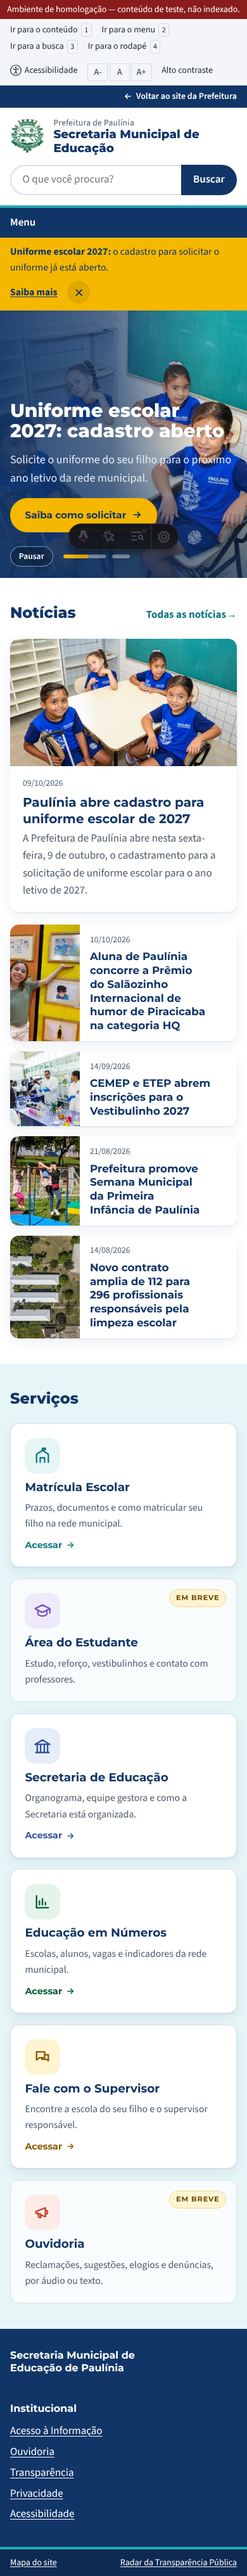
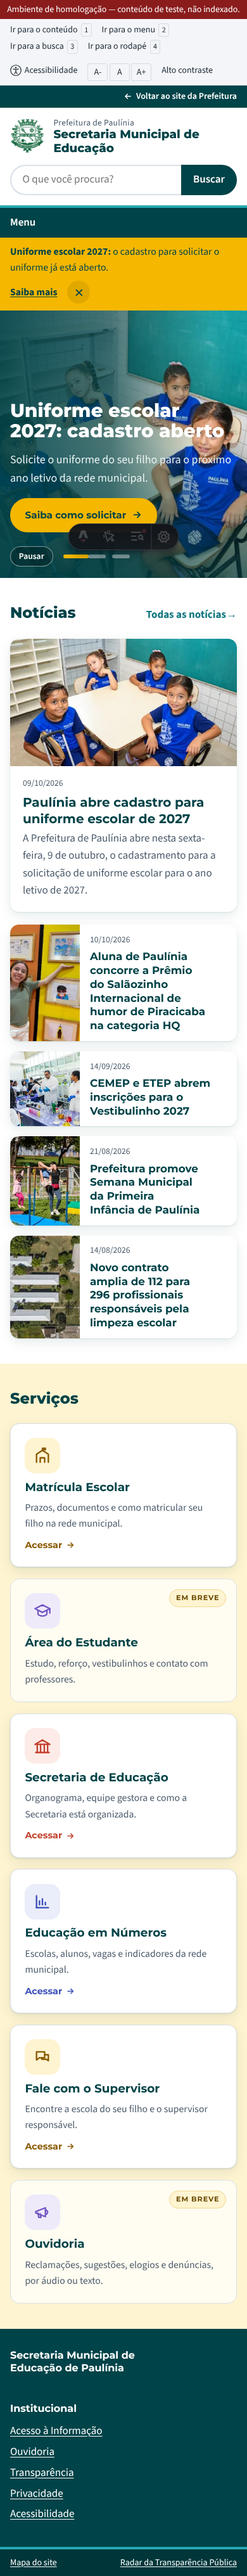
Sistema visual: paleta verde-petróleo da Prefeitura na estrutura e cores vivas próprias no meio; capturas atualizadas
Claude-Session: https://claude.ai/code/session_01HXB4AVSHEMsUa94wDepnf5

Changed region(s): [[0.0, 0.3749, 1.0, 0.9998], [0.0, 0.0312, 1.0, 0.2499]]

diff --git a/docs/design/sistema-visual.html b/docs/design/sistema-visual.html
@@ -7,27 +7,30 @@
    Página de aprovação de um site claro: um só visual, cores explícitas. */
 :root {
   color-scheme: light;
-  /* Estrutura: cores do site da Prefeitura (www.paulinia.sp.gov.br) */
-  --marinho: #113567;
+  /* Estrutura: verdes do site da Prefeitura (medidos na tela de www.paulinia.sp.gov.br) */
+  --marinho: #004348; /* petróleo (nome da variável mantido por compatibilidade) */
   --turquesa: #24a9b3;
   --turquesa-escuro: #127882;
-  --azul: #325497;
-  --ceu: #2996cc;
-  /* Cores vivas da Educação */
+  --verde-pref: #339558; /* verde do logo da Prefeitura */
+  /* Cores vivas da Educação: o portal da Prefeitura não usa nenhuma delas */
   --amarelo: #f5b700;
   --coral: #e8604c;
   --coral-escuro: #c2412d;
-  --verde: #2e9e5b;
-  --verde-escuro: #005c2e; /* o verde do brasão */
+  --anil: #3b4fb8;
+  --azul: #3b4fb8;
+  --ceu: #6f86e0;
+  --verde: #339558;
+  --verde-escuro: #127882;
   --lilas: #7356c4;
   /* Tons de seção (fundos alternados) */
   --tom-turquesa: #e6f6f7;
   --tom-amarelo: #fff4d1;
   --tom-lilas: #efeafa;
   --tom-coral: #fdebe7;
-  --tom-verde: #e5f4ea;
-  --cinza: #f4f6f9;
-  /* Neutros com viés azul */
+  --tom-verde: #e6f6f7;
+  --tom-anil: #eaedfa;
+  --cinza: #f3f7f7;
+  /* Neutros
   --texto: #1c2b3a;
   --texto-suave: #4b5b6b;
   --borda: #d8e0e8;
@@ -217,19 +220,15 @@ a { color: var(--azul); }
   <div class="miolo">
     <span class="rotulo">Marca</span>
     <h2>O brasão em três aplicações</h2>
-    <p class="intro">O arquivo enviado tem uma cor só, então ele pode ser aplicado no verde original, no marinho da Prefeitura ou em branco sobre fundos escuros. No portal, o nome da Secretaria ao lado do brasão é escrito em texto, não em imagem: fica nítido em qualquer tela e é lido por leitores de tela.</p>
+    <p class="intro">O arquivo enviado tem uma cor só, então ele pode ser aplicado no verde original ou em branco sobre fundos escuros. No portal, o nome da Secretaria ao lado do brasão é escrito em texto, não em imagem: fica nítido em qualquer tela e é lido por leitores de tela.</p>
     <div class="marcas">
       <div class="marca-op">
         <div class="fundo" style="background:var(--branco)"><img src="marca/logo-smedu-verde-640.png" alt="Marca da Secretaria Municipal de Educação de Paulínia em verde" width="640" height="246"></div>
-        <div class="leg"><span class="recomendado">Recomendado</span><b>Verde original · fundos claros</b><span>Mantém a cor do arquivo oficial e marca a Educação como “casa própria”, ao lado das cores da Prefeitura. O verde vira o verde escuro da paleta.</span></div>
+        <div class="leg"><span class="recomendado">Recomendado</span><b>Verde original · fundos claros</b><span>Mantém a cor do arquivo oficial e marca a Educação como “casa própria”, e conversa com os verdes do site da Prefeitura.</span></div>
       </div>
-      <div class="marca-op">
-        <div class="fundo" style="background:var(--branco)"><img src="marca/logo-smedu-marinho-640.png" alt="Marca da Secretaria Municipal de Educação de Paulínia em marinho" width="640" height="246"></div>
-        <div class="leg"><b>Marinho · fundos claros</b><span>Alternativa mais próxima do site da Prefeitura, com tudo no mesmo azul.</span></div>
-      </div>
-      <div class="marca-op">
+            <div class="marca-op">
         <div class="fundo" style="background:var(--marinho)"><img src="marca/logo-smedu-branco-640.png" alt="Marca da Secretaria Municipal de Educação de Paulínia em branco" width="640" height="246"></div>
-        <div class="leg"><b>Branco · fundos escuros</b><span>Rodapé, destaque e qualquer faixa marinho ou colorida.</span></div>
+        <div class="leg"><b>Branco · fundos escuros</b><span>Rodapé, destaque e qualquer faixa petróleo ou colorida.</span></div>
       </div>
     </div>
   </div>
@@ -239,22 +238,21 @@ a { color: var(--azul); }
   <div class="miolo">
     <span class="rotulo">1 · Paleta</span>
     <h2>Mesma família da Prefeitura, casa própria</h2>
-    <p class="intro">As cores do site oficial (marinho, turquesa, azul e azul-céu, com a fonte Montserrat) ficam nos elementos estruturais: cabeçalho, rodapé, títulos e botões principais. Quatro cores vivas marcam a Educação nas seções e nos cards. Cada combinação de texto foi medida pelo critério de contraste do eMAG/WCAG (mínimo 4,5 para texto comum; 3 para texto grande).</p>
+    <p class="intro">Os verdes do site oficial (petróleo e turquesa, com a fonte Montserrat) ficam na estrutura: barra da Prefeitura, cabeçalho, menu, rodapé e títulos. No meio da página entram quatro cores vivas que o portal da Prefeitura não usa (amarelo, lilás, coral e anil), dando à Educação identidade própria. Cada combinação de texto foi medida pelo critério de contraste do eMAG/WCAG (mínimo 4,5 para texto comum; 3 para texto grande).</p>
 
-    <h3>Estrutura · cores do site da Prefeitura</h3>
+    <h3>Estrutura · verdes do site da Prefeitura</h3>
     <div class="grupo-cores">
-      <div class="cor"><div class="amostra" style="background:var(--marinho);color:#fff">Marinho</div><div class="dados"><code>#113567</code><span>Cabeçalho, rodapé, títulos, botão principal</span><span class="selo ok">✓ texto branco 12,2</span></div></div>
-      <div class="cor"><div class="amostra" style="background:var(--turquesa);color:var(--marinho)">Turquesa</div><div class="dados"><code>#24a9b3</code><span>Cor-assinatura da Prefeitura: linhas, ícones, detalhes</span><span class="selo so-grande">texto branco 2,8: só como detalhe</span></div></div>
+      <div class="cor"><div class="amostra" style="background:var(--marinho);color:#fff">Petróleo</div><div class="dados"><code>#004348</code><span>Barra da Prefeitura, menu, rodapé, títulos, botão principal</span><span class="selo ok">✓ texto branco 11,1</span></div></div>
+      <div class="cor"><div class="amostra" style="background:var(--turquesa);color:var(--marinho)">Turquesa</div><div class="dados"><code>#24a9b3</code><span>Cor-assinatura da Prefeitura: linhas, ícones, detalhes</span><span class="selo so-grande">texto branco 2,8: só como detalhe; petróleo sobre ela 3,9</span></div></div>
       <div class="cor"><div class="amostra" style="background:var(--turquesa-escuro);color:#fff">Turquesa escuro</div><div class="dados"><code>#127882</code><span>Botões e links sobre a turquesa</span><span class="selo ok">✓ texto branco 5,2</span></div></div>
-      <div class="cor"><div class="amostra" style="background:var(--azul);color:#fff">Azul</div><div class="dados"><code>#325497</code><span>Links, botões secundários</span><span class="selo ok">✓ texto branco 7,4</span></div></div>
-      <div class="cor"><div class="amostra" style="background:var(--ceu);color:var(--marinho)">Azul-céu</div><div class="dados"><code>#2996cc</code><span>Ilustrações e gráficos</span><span class="selo so-grande">texto branco 3,3: só títulos grandes</span></div></div>
+      <div class="cor"><div class="amostra" style="background:var(--verde-pref);color:#fff">Verde do logo</div><div class="dados"><code>#339558</code><span>Só no brasão e em detalhes; não é usado em texto</span><span class="selo so-grande">texto branco 3,8: só títulos grandes</span></div></div>
     </div>
 
-    <h3>Cores vivas · Educação</h3>
+    <h3>Cores vivas · Educação (meio da página)</h3>
     <div class="grupo-cores">
-      <div class="cor"><div class="amostra" style="background:var(--amarelo);color:var(--marinho)">Amarelo-lápis</div><div class="dados"><code>#f5b700</code><span>Chamadas de ação, avisos informativos</span><span class="selo ok">✓ texto marinho 6,7</span></div></div>
+      <div class="cor"><div class="amostra" style="background:var(--amarelo);color:var(--marinho)">Amarelo-lápis</div><div class="dados"><code>#f5b700</code><span>Chamadas de ação, avisos informativos</span><span class="selo ok">✓ texto petróleo 6,2</span></div></div>
       <div class="cor"><div class="amostra" style="background:var(--coral-escuro);color:#fff">Coral</div><div class="dados"><code>#e8604c · #c2412d</code><span>Avisos urgentes, eventos</span><span class="selo ok">✓ texto branco 5,1 (escuro)</span></div></div>
-      <div class="cor"><div class="amostra" style="background:var(--verde-escuro);color:#fff">Verde do brasão</div><div class="dados"><code>#2e9e5b · #005c2e</code><span>Programas, escolas, números da rede; o tom escuro é o mesmo do brasão</span><span class="selo ok">✓ texto branco 8,2 (escuro)</span></div></div>
+      <div class="cor"><div class="amostra" style="background:var(--anil);color:#fff">Anil</div><div class="dados"><code>#3b4fb8</code><span>Educação em Números, programas, gráficos</span><span class="selo ok">✓ texto branco 7,0</span></div></div>
       <div class="cor"><div class="amostra" style="background:var(--lilas);color:#fff">Lilás</div><div class="dados"><code>#7356c4</code><span>Área do Estudante, conteúdos</span><span class="selo ok">✓ texto branco 5,4</span></div></div>
     </div>
 
@@ -264,8 +262,8 @@ a { color: var(--azul); }
       <div class="tom" style="background:var(--tom-amarelo)"><b>Amarelo claro</b><code>#fff4d1</code> · texto 13,1</div>
       <div class="tom" style="background:var(--tom-lilas)"><b>Lilás claro</b><code>#efeafa</code> · texto 12,2</div>
       <div class="tom" style="background:var(--tom-coral)"><b>Coral claro</b><code>#fdebe7</code> · texto 12,5</div>
-      <div class="tom" style="background:var(--tom-verde)"><b>Verde claro</b><code>#e5f4ea</code> · texto 12,7</div>
-      <div class="tom" style="background:var(--cinza)"><b>Cinza-azulado</b><code>#f4f6f9</code> · texto 13,3</div>
+      <div class="tom" style="background:var(--tom-anil)"><b>Anil claro</b><code>#eaedfa</code> · texto 12,4</div>
+      <div class="tom" style="background:var(--cinza)"><b>Cinza-esverdeado</b><code>#f3f7f7</code> · texto 13,4</div>
     </div>
   </div>
 </section>
@@ -359,13 +357,13 @@ a { color: var(--azul); }
     <h2>Manchete maior, demais ao lado, sempre com foto</h2>
     <div class="noticias">
       <a class="noticia grande" href="#">
-        <svg class="foto" viewBox="0 0 160 90" preserveAspectRatio="xMidYMid slice" aria-hidden="true"><rect width="160" height="90" fill="#2996cc"/><circle cx="120" cy="20" r="40" fill="#24a9b3"/><rect y="62" width="160" height="28" fill="#2e9e5b"/><text x="10" y="80" font-family="Montserrat" font-size="8" fill="#fff">foto real da notícia</text></svg>
+        <svg class="foto" viewBox="0 0 160 90" preserveAspectRatio="xMidYMid slice" aria-hidden="true"><rect width="160" height="90" fill="#3b4fb8"/><circle cx="120" cy="20" r="40" fill="#24a9b3"/><rect y="62" width="160" height="28" fill="#7356c4"/><text x="10" y="80" font-family="Montserrat" font-size="8" fill="#fff">foto real da notícia</text></svg>
         <div class="txt"><span class="cat">Rede municipal</span><h3>Manchete principal do momento ocupa o espaço maior</h3><p class="nota">Exemplo de layout; o conteúdo real entra na carga inicial.</p></div>
       </a>
       <div class="lista">
         <a class="noticia pequena" href="#"><svg class="foto" viewBox="0 0 120 100" preserveAspectRatio="xMidYMid slice" aria-hidden="true"><rect width="120" height="100" fill="#f5b700"/><circle cx="30" cy="70" r="35" fill="#e8604c"/></svg><div class="txt"><span class="cat">Escolas</span><h3>Notícia secundária com foto</h3></div></a>
         <a class="noticia pequena" href="#"><svg class="foto" viewBox="0 0 120 100" preserveAspectRatio="xMidYMid slice" aria-hidden="true"><rect width="120" height="100" fill="#7356c4"/><circle cx="90" cy="30" r="30" fill="#24a9b3"/></svg><div class="txt"><span class="cat">Programas</span><h3>Outra notícia secundária</h3></div></a>
-        <a class="noticia pequena" href="#"><svg class="foto" viewBox="0 0 120 100" preserveAspectRatio="xMidYMid slice" aria-hidden="true"><rect width="120" height="100" fill="#113567"/><rect x="0" y="60" width="120" height="40" fill="#2e9e5b"/></svg><div class="txt"><span class="cat">Eventos</span><h3>Mais uma, sempre com imagem</h3></div></a>
+        <a class="noticia pequena" href="#"><svg class="foto" viewBox="0 0 120 100" preserveAspectRatio="xMidYMid slice" aria-hidden="true"><rect width="120" height="100" fill="#004348"/><rect x="0" y="60" width="120" height="40" fill="#7356c4"/></svg><div class="txt"><span class="cat">Eventos</span><h3>Mais uma, sempre com imagem</h3></div></a>
       </div>
     </div>
   </div>
@@ -391,13 +389,14 @@ a { color: var(--azul); }
     <span class="rotulo">Regras de uso</span>
     <h2>Para a paleta continuar acessível</h2>
     <ul class="regras">
-      <li>Texto branco só sobre marinho, azul, turquesa escuro, coral escuro, verde escuro e lilás.</li>
-      <li>Sobre amarelo, turquesa e azul-céu, o texto é marinho; turquesa e azul-céu com texto branco só em títulos grandes.</li>
+      <li>Texto branco só sobre petróleo, turquesa escuro, anil, coral escuro e lilás.</li>
+      <li>Sobre amarelo e turquesa, o texto é petróleo; turquesa e verde do logo com texto branco só em títulos grandes.</li>
+      <li>Estrutura (barra, cabeçalho, menu, rodapé) sempre em petróleo; as cores vivas ficam no meio da página.</li>
       <li>As seções alternam branco e um tom claro; nunca duas cores vivas lado a lado.</li>
       <li>No modo de alto contraste do portal, as cores dão lugar a preto, branco e amarelo (já existe no portal base).</li>
       <li>Todas as cores ficam em <code>municipios.tema</code>, editáveis pelo painel: outro órgão troca a paleta sem mudar código.</li>
     </ul>
-    <p class="nota">Proposta para aprovação · 12/10/2026 · cores extraídas do CSS de www.paulinia.sp.gov.br. Brasão: arquivo enviado em 12/10/2026, aplicado em verde, marinho e branco.</p>
+    <p class="nota">Proposta para aprovação · 12/10/2026 · verdes medidos na tela renderizada de www.paulinia.sp.gov.br (a 1ª versão usou o marinho das variáveis CSS do site, que não aparece na tela; corrigido). Brasão: arquivo enviado em 12/10/2026, aplicado em verde e branco.</p>
   </div>
 </section>
 
@@ -405,6 +404,6 @@ a { color: var(--azul); }
   <div class="miolo" style="gap:.4rem">
     <img src="marca/brasao-branco-128.png" alt="Brasão de Paulínia" width="62" height="64">
     <strong style="font-family:var(--titulo)">Secretaria Municipal de Educação · Paulínia/SP</strong>
-    <span style="color:#c9d6e6">Rodapé no marinho da Prefeitura, com endereço, telefone e horário (dados a confirmar).</span>
+    <span style="color:#c9d6e6">Rodapé no petróleo da Prefeitura, com endereço, telefone e horário (dados a confirmar).</span>
   </div>
 </footer>
